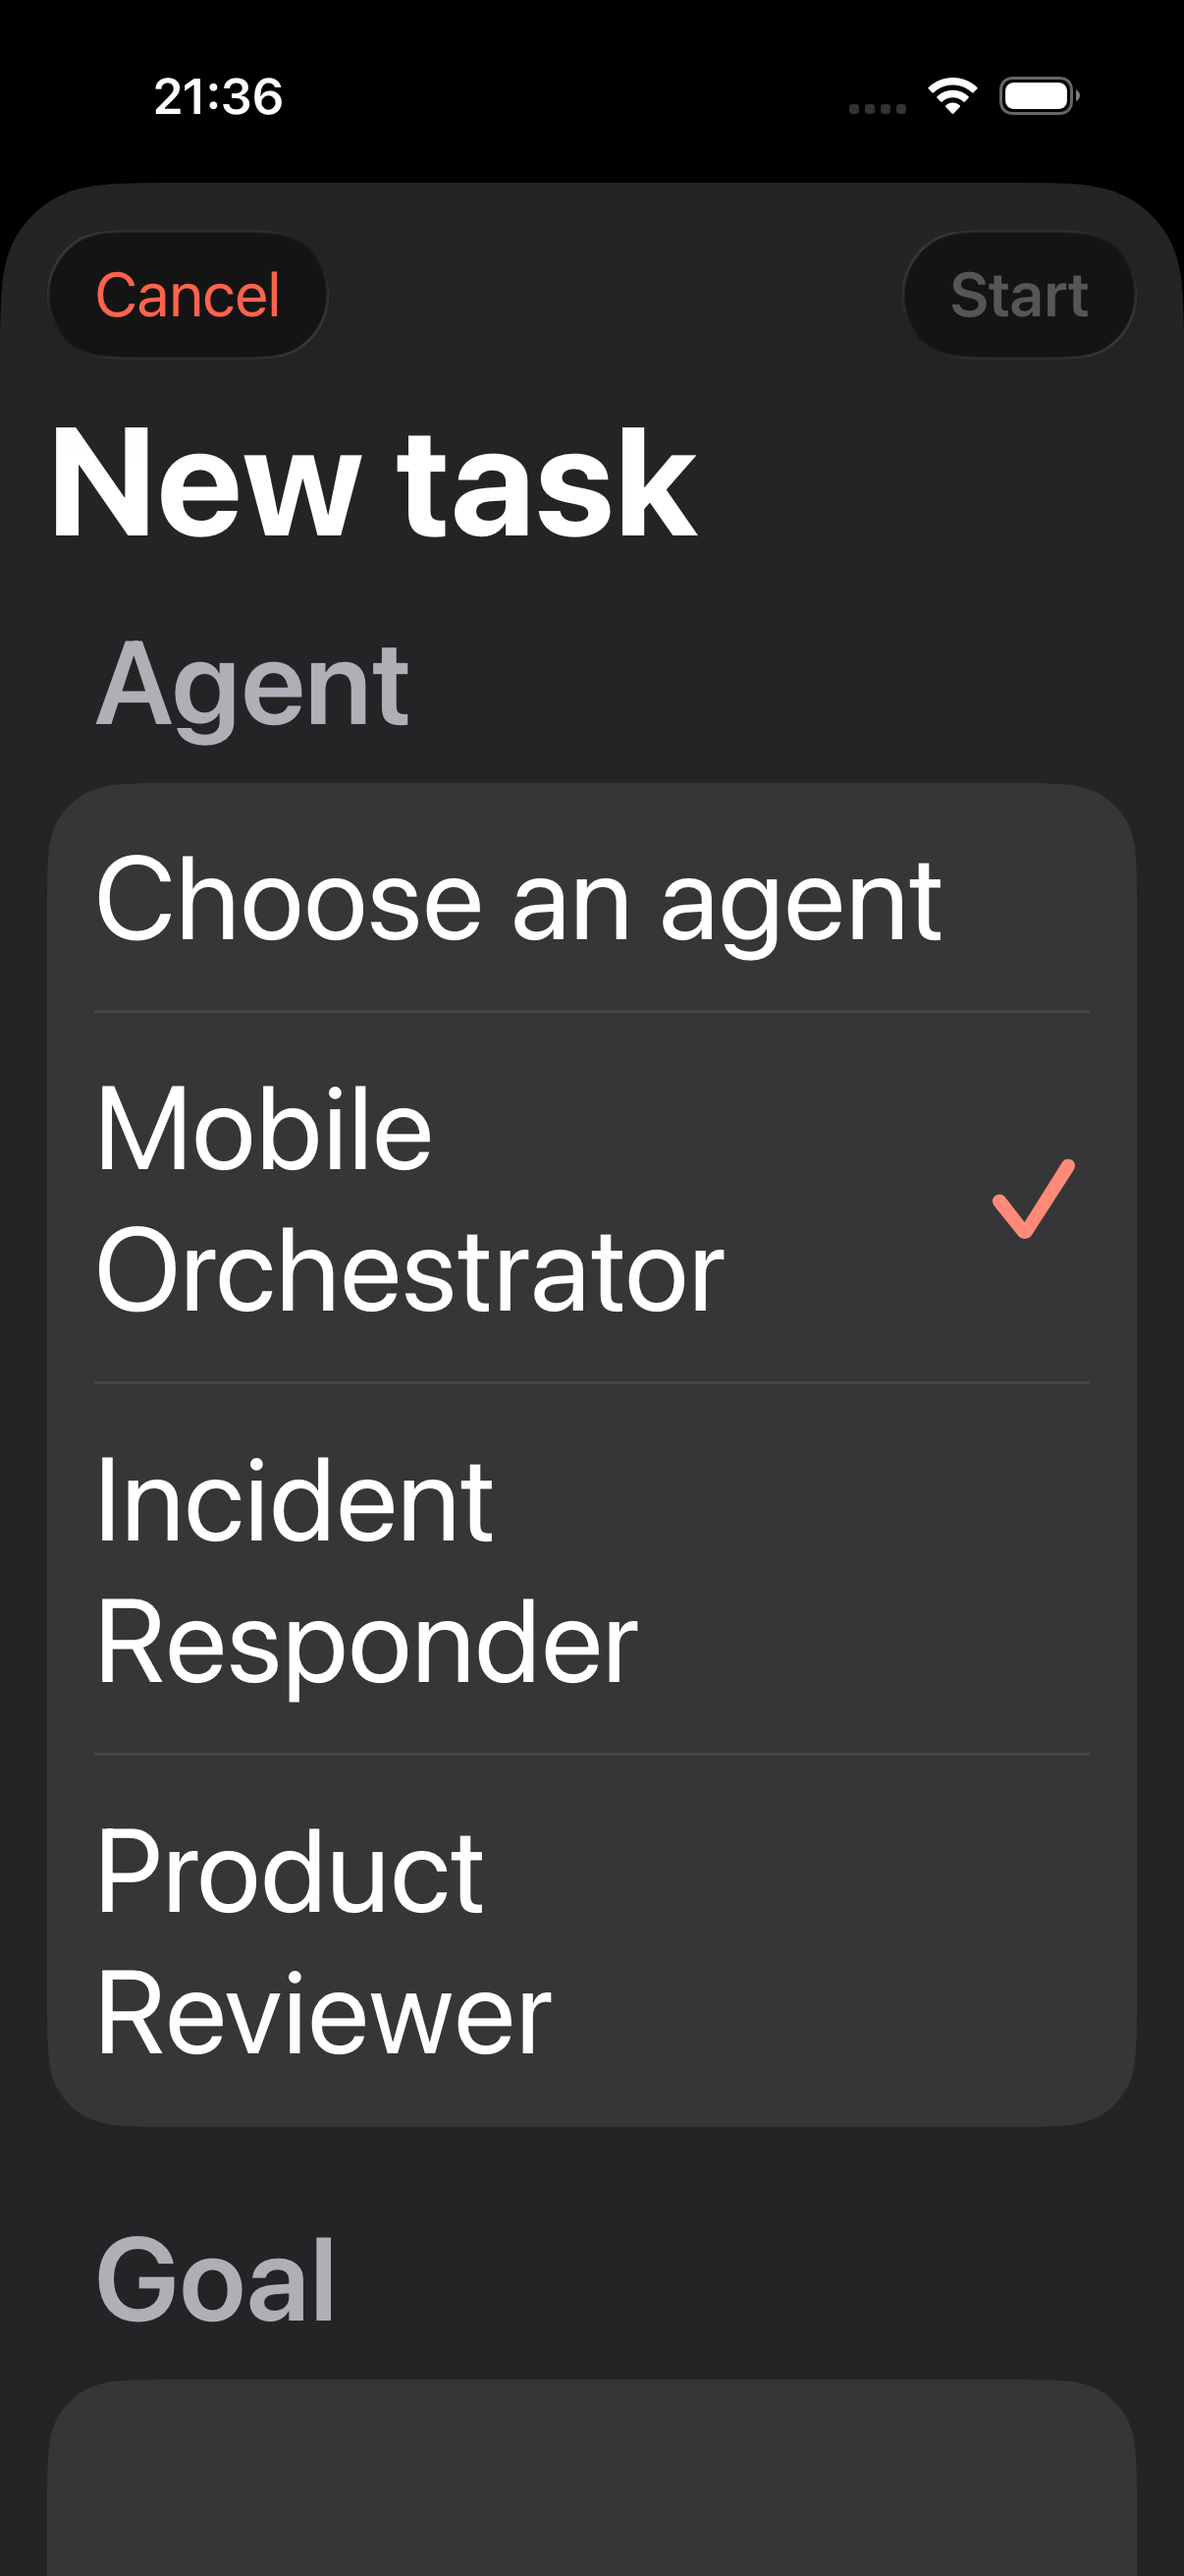
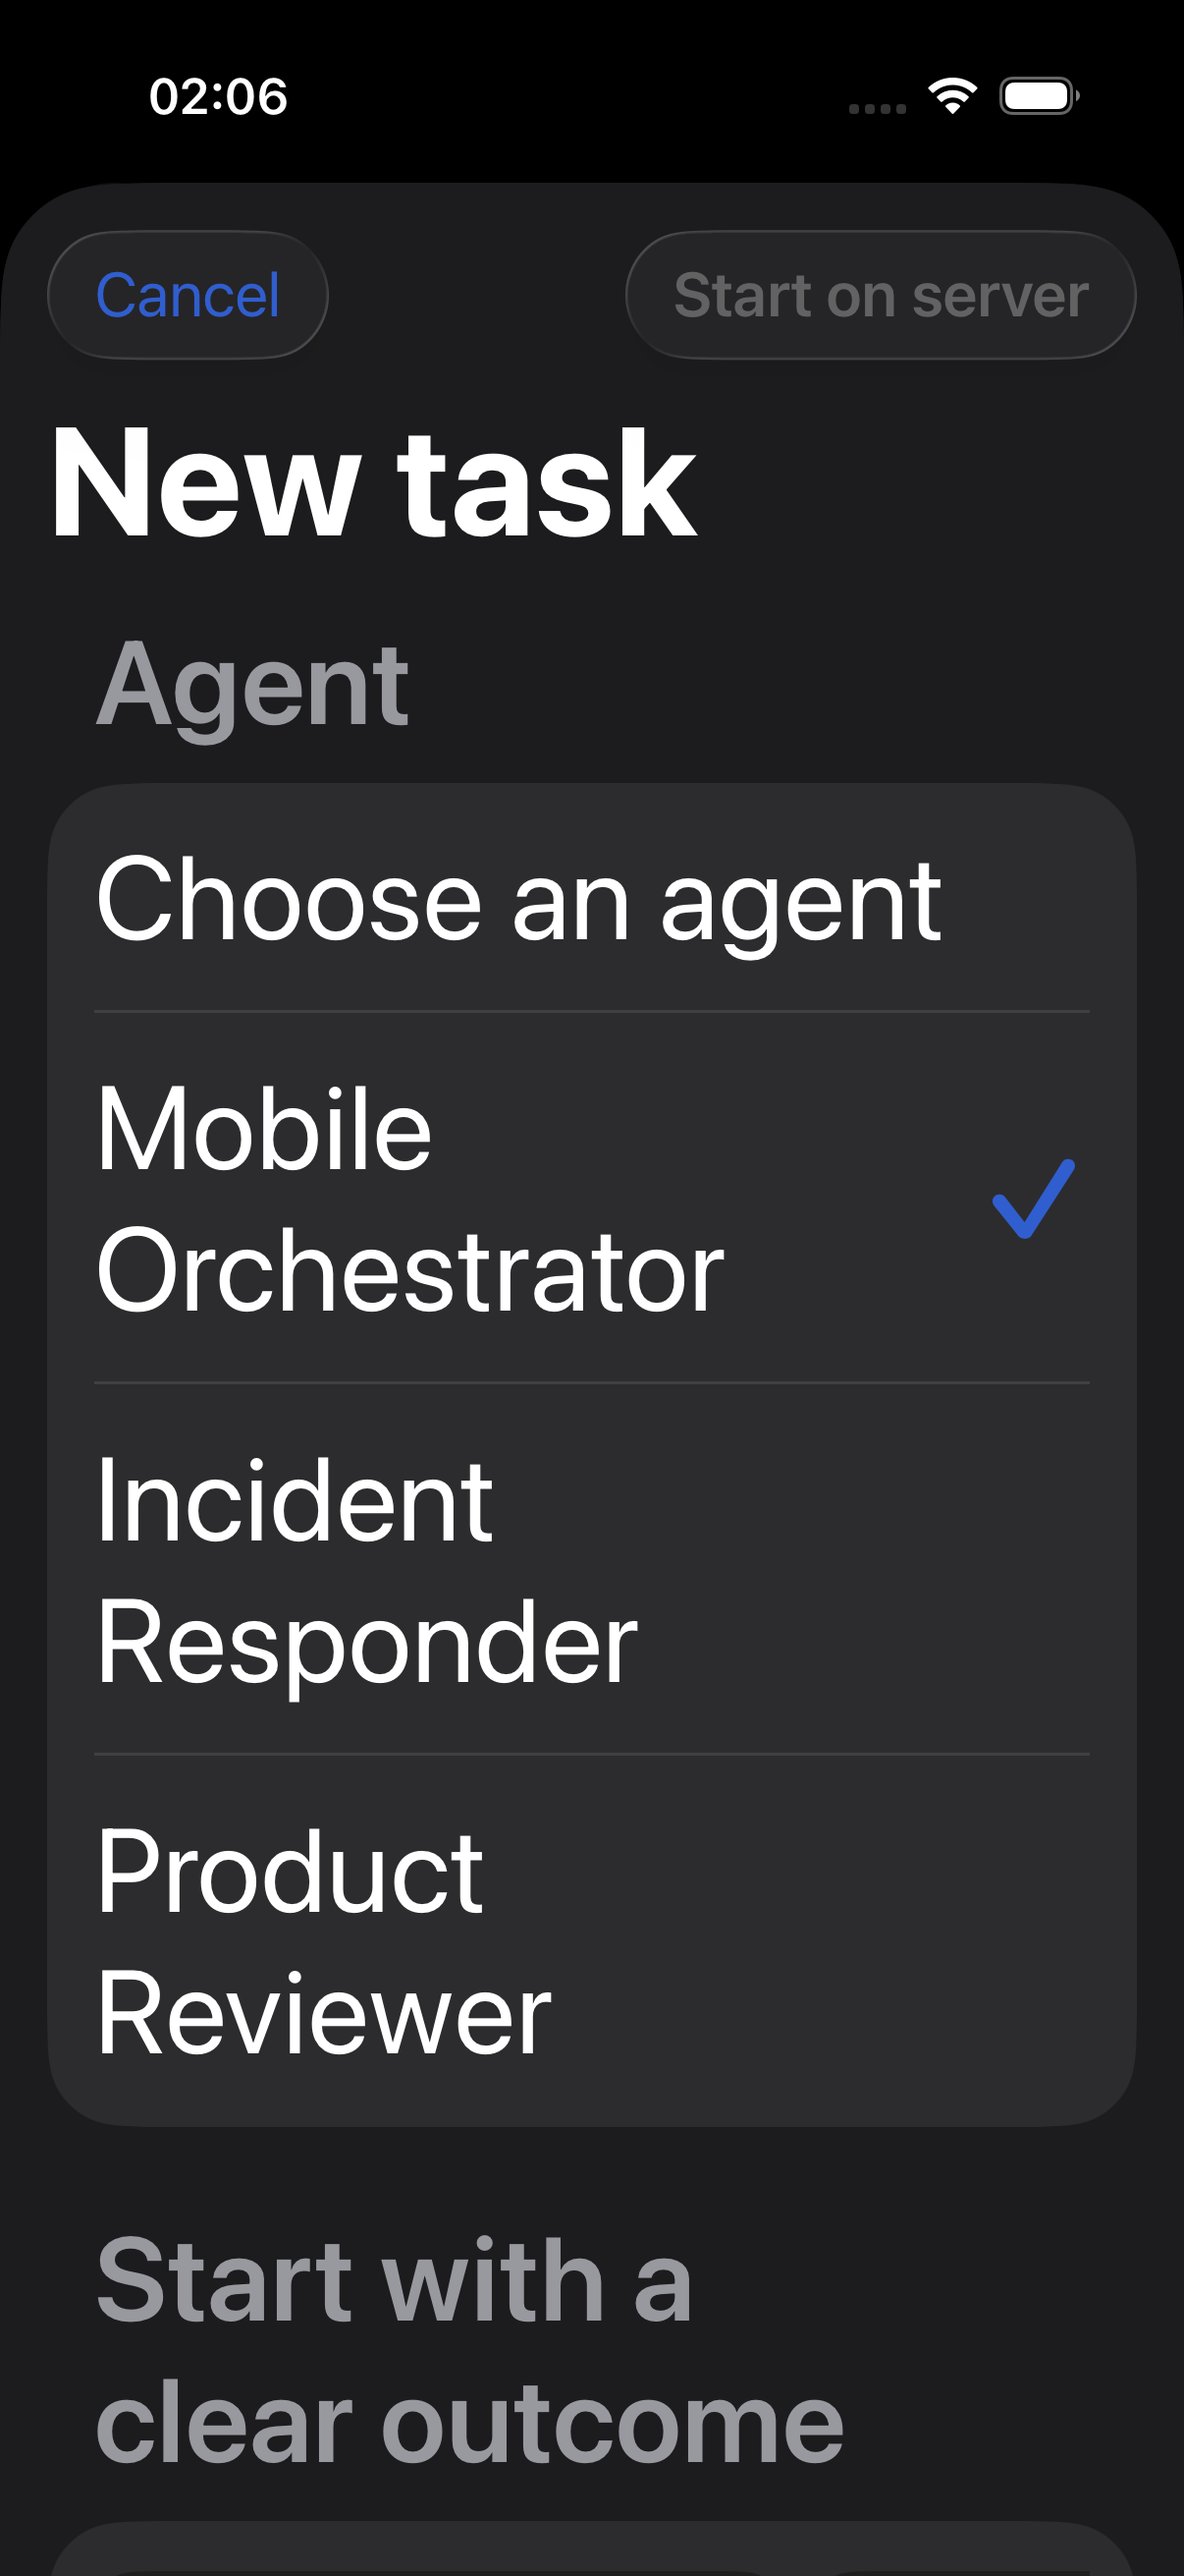
mobile: gate iOS remote controls with UI tests

diff --git a/mobile/iosApp/UITests/GariveIOSUITests.swift b/mobile/iosApp/UITests/GariveIOSUITests.swift
@@ -1,0 +1,59 @@
+import XCTest
+
+final class GariveIOSUITests: XCTestCase {
+    override func setUpWithError() throws {
+        continueAfterFailure = false
+    }
+
+    @MainActor
+    func testRemoteNavigationAndNewTaskControlsAreReachable() throws {
+        let app = walkthroughApp()
+        app.launch()
+
+        XCTAssertTrue(app.navigationBars["Remote"].waitForExistence(timeout: 8))
+        XCTAssertTrue(app.staticTexts["Connected · server work continues"].exists)
+        app.buttons["Open navigation"].tap()
+        XCTAssertTrue(app.buttons["Sessions"].waitForExistence(timeout: 2))
+        XCTAssertTrue(app.buttons["Agents"].exists)
+        XCTAssertTrue(app.buttons["Settings"].exists)
+
+        app.buttons["Sessions"].tap()
+        XCTAssertTrue(app.navigationBars["Sessions"].waitForExistence(timeout: 3))
+        app.buttons["New task"].tap()
+        XCTAssertTrue(app.navigationBars["New remote task"].waitForExistence(timeout: 3))
+        let synthesize = starterButton("Synthesize", in: app)
+        XCTAssertTrue(synthesize.exists)
+        XCTAssertTrue(starterButton("Analyze", in: app).exists)
+        XCTAssertTrue(starterButton("Create", in: app).exists)
+        synthesize.tap()
+        XCTAssertTrue(app.buttons["Start on server"].isEnabled)
+    }
+
+    @MainActor
+    func testConversationExposesBoundedDecisionAndCancelControls() throws {
+        let app = walkthroughApp("--garive-walkthrough-conversation")
+        app.launch()
+
+        XCTAssertTrue(app.buttons["Approve once"].waitForExistence(timeout: 8))
+        XCTAssertTrue(app.buttons["Decline"].exists)
+        XCTAssertTrue(app.buttons["Activity · 1"].exists)
+        app.buttons["Activity · 1"].tap()
+        XCTAssertTrue(app.staticTexts["Verification"].waitForExistence(timeout: 2))
+
+        app.buttons["Stop current work"].tap()
+        XCTAssertTrue(app.buttons["Stop turn"].waitForExistence(timeout: 2))
+        XCTAssertTrue(app.staticTexts["Committed work remains in the timeline."].exists)
+    }
+
+    @MainActor
+    private func walkthroughApp(_ extraArguments: String...) -> XCUIApplication {
+        let app = XCUIApplication()
+        app.launchArguments = ["--garive-walkthrough"] + extraArguments
+        return app
+    }
+
+    @MainActor
+    private func starterButton(_ label: String, in app: XCUIApplication) -> XCUIElement {
+        app.buttons.matching(NSPredicate(format: "label BEGINSWITH %@", label)).firstMatch
+    }
+}

diff --git a/mobile/iosApp/Sources/GariveIOS/TaskViews.swift b/mobile/iosApp/Sources/GariveIOS/TaskViews.swift
@@ -62,7 +62,7 @@ struct NewTaskView: View {
                     Button("Cancel") { model.dismissNewTask(); dismiss() }
                 }
                 ToolbarItem(placement: .confirmationAction) {
-                    Button("Start") { model.start(definitionID: selectedID, text: prompt) }
+                    Button("Start on server") { model.start(definitionID: selectedID, text: prompt) }
                         .disabled(selectedID.isEmpty || prompt.trimmingCharacters(in: .whitespacesAndNewlines).isEmpty ||
                             prompt.utf8.count > maxInputBytes || model.state?.connection != .online)
                 }

diff --git a/spec/STATUS.md b/spec/STATUS.md
@@ -75,7 +75,7 @@ planned without reopening a narrower completed row.
 | A-DESKTOP-WA | Governed Workspaces and artifacts | accepted | accepted | documented | partial | partial | active | Complete remaining accessibility/package matrices. Session detach has an idempotent durable receipt and restart-safe projection; global revoke journals a manifest-v2 tombstone and retries Keychain cleanup after restart. Artifact export now journals only bounded opaque pending IDs, removes the exact interrupted temporary when its directory is next explicitly authorized, preserves unrelated files, and never persists or exposes a path. Immutable receipt-bound Artifact projection, digest-verified preview and one-shot no-overwrite export are implemented, and the real SQLite approval-to-file-to-Artifact flow passes. |
 | A-DESKTOP-VE | Desktop visual, journey and manual evidence | accepted | accepted | documented | partial | missing | active | The deterministic evidence verifier, Chinese manual source, eight-page tagged draft and 18-entry outline are implemented. Unlock a supported Mac, execute the stable 62-row M01–M85 full-function capture matrix on the exact candidate, close visual defects, emit a digest-bound safe screenshot manifest, replace every pending marker, and independently verify PDF/UA plus VoiceOver reading order. Deterministic fixtures prove presentation only, never product behavior. |
 | A-MOBILE | KMP/Android/iOS shells | accepted | accepted | documented | implemented | verified | done | Keep KMP real-loopback transport, XCFramework, Swift, Android SDK 36 APK and API 36 Compose instrumentation gates green; remote physical-device connectivity is not claimed. |
-| A-MOBILE-R | Native remote-work mobile product | accepted | accepted | documented | implemented | partial | active | KMP controller, secure pairing, native Compose/SwiftUI product, installable builds, Gateway/private APNs/FCM wake paths, complete 35-screenshot user guide, real native loopback actions, offline/reconnect, desktop-aligned drawer and goal starters, local Session search/status filters, explicit rendered-conversation sharing, dark/200%-equivalent type, Android landscape plus persistent-sidebar Android tablet/iPad evidence are verified locally. Ordinary Session rows and accessibility labels hide internal IDs. Agent details are exact and copyable, task creation preserves the selected definition, and remote submission uses one consistent 16 KiB UI/controller input boundary within a 64 KiB command envelope. Explicit approve/decline, collapsed Activity, multi-Turn append, cancellation and stable dismissible failure banners are directly exercised. Ambiguous mutations persist strict digest-bound identity/input records across process restart, including two-stage create/start recovery, exact retry and warned local abandonment; banner dismissal never clears pending work. Authentication failure returns both native shells to pairing. Settings includes persistent theme, system notification controls, verified host, safe diagnostics and confirmed unpair; Android Keystore and Apple Keychain tests prove credential deletion and device-key rotation. Current local gates include 13 API 36 native tests and 9 Swift tests. Close only with physical iOS/Android Gateway-to-Runtime create/reconnect/background/wake/decision/cancel/revoke evidence. |
+| A-MOBILE-R | Native remote-work mobile product | accepted | accepted | documented | implemented | partial | active | KMP controller, secure pairing, native Compose/SwiftUI product, installable builds, Gateway/private APNs/FCM wake paths, complete 35-screenshot user guide, real native loopback actions, offline/reconnect, desktop-aligned drawer and goal starters, local Session search/status filters, explicit rendered-conversation sharing, dark/200%-equivalent type, Android landscape plus persistent-sidebar Android tablet/iPad evidence are verified locally. Ordinary Session rows and accessibility labels hide internal IDs. Agent details are exact and copyable, task creation preserves the selected definition, and remote submission uses one consistent 16 KiB UI/controller input boundary within a 64 KiB command envelope. Explicit approve/decline, collapsed Activity, multi-Turn append, cancellation and stable dismissible failure banners are directly exercised. Ambiguous mutations persist strict digest-bound identity/input records across process restart, including two-stage create/start recovery, exact retry and warned local abandonment; banner dismissal never clears pending work. Authentication failure returns both native shells to pairing. Settings includes persistent theme, system notification controls, verified host, safe diagnostics and confirmed unpair; Android Keystore and Apple Keychain tests prove credential deletion and device-key rotation. Current local gates include 13 API 36 native tests, 9 Swift tests and 2 serial iOS Simulator XCUITests that exercise Remote navigation, Sessions, new-task starters/enabled submit, approval controls, Activity and cancellation confirmation. Close only with physical iOS/Android Gateway-to-Runtime create/reconnect/background/wake/decision/cancel/revoke evidence. |
 | A-UX1-A | Shared product controller | accepted | accepted | documented | implemented | verified | done | Keep exact TypeScript/KMP fixture parity, strict fixture readers, Host projection, correlation, mutation, reconnect, activity, preference and native XCFramework gates green. |
 | A-UX1 | Product client experience | accepted | accepted | partial | partial | partial | active | UX-A, Desktop UX-B and the Web presentation/transport implementation are complete: Desktop and Web mount one React Work UI and controller with semantic visual tokens, truthful optional capacity presentation, exact create/start/cancel/text-or-boolean continuation, bounded preference/pending recovery, lifecycle-priority navigation, keyboard task control, explicit reconnect and shared screenshot presentation. Close the capacity source adapter, UX-C real Runtime same-machine Web E2E, remaining localization and physical-device accessibility matrices; Web captures never substitute for macOS native evidence. |
 | G0 | Go Gateway | accepted | accepted | documented | implemented | verified | done | Keep TLS-only edge composition, one-time device pairing, route/header admission, SSE passthrough, expiry/revocation and race tests green; durable multi-instance grants are a later slice. |

diff --git a/mobile/iosApp/README.md b/mobile/iosApp/README.md
@@ -42,10 +42,20 @@ java -classpath ../../experiments/engine-kt/gradle/wrapper/gradle-wrapper.jar \
   org.gradle.wrapper.GradleWrapperMain assembleGariveSharedDebugXCFramework
 cd ../iosApp
 swift test
+xcodebuild test -project GariveIOS.xcodeproj -scheme GariveIOS \
+  -configuration Debug \
+  -destination 'platform=iOS Simulator,id=<simulator-udid>' \
+  CODE_SIGNING_ALLOWED=NO -parallel-testing-enabled NO \
+  -only-testing:GariveIOSUITests
 xcodebuild -project GariveIOS.xcodeproj -target GariveIOS \
   -configuration Debug -sdk iphoneos ARCHS=arm64 \
   CODE_SIGNING_ALLOWED=NO clean build
 ```
+
+The two UI tests require `go run ./cmd/garive-mobile-demo-host` from
+`runtime/gateway/`. They launch the Debug-only walkthrough and exercise the
+Remote drawer, Sessions, new-task starters and enabled server submit control,
+plus collapsed Activity, approve/decline and cancellation confirmation.
 
 The Xcode target produces `Garive.app`, registers expiring `garive://pair`
 handoffs, and links the static XCFramework. Distribution still requires the
